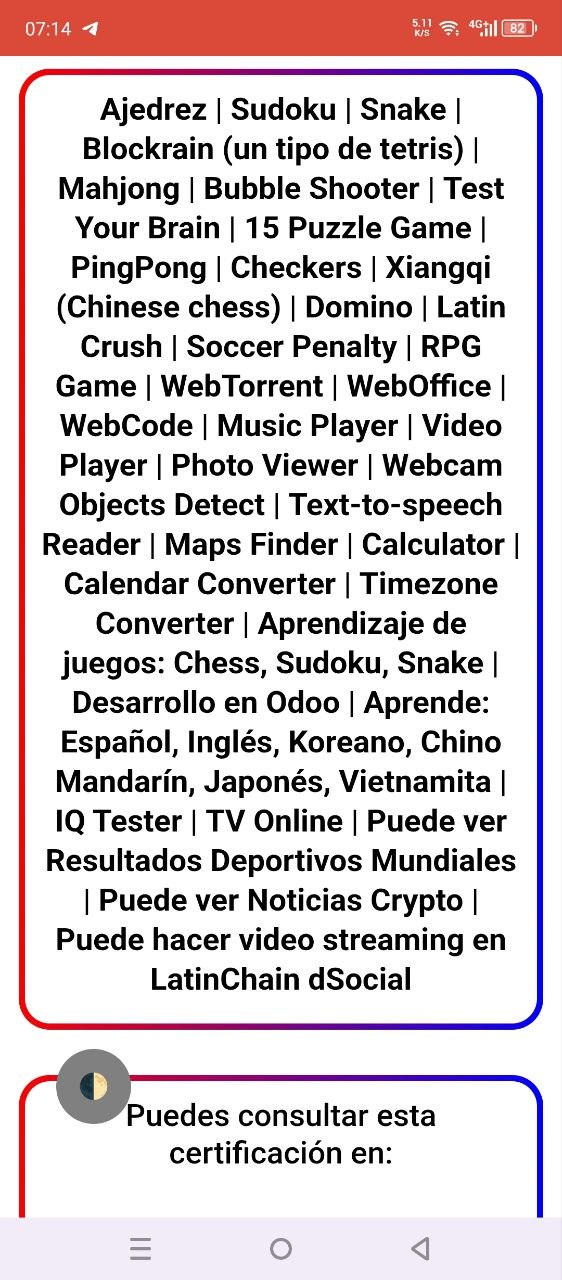
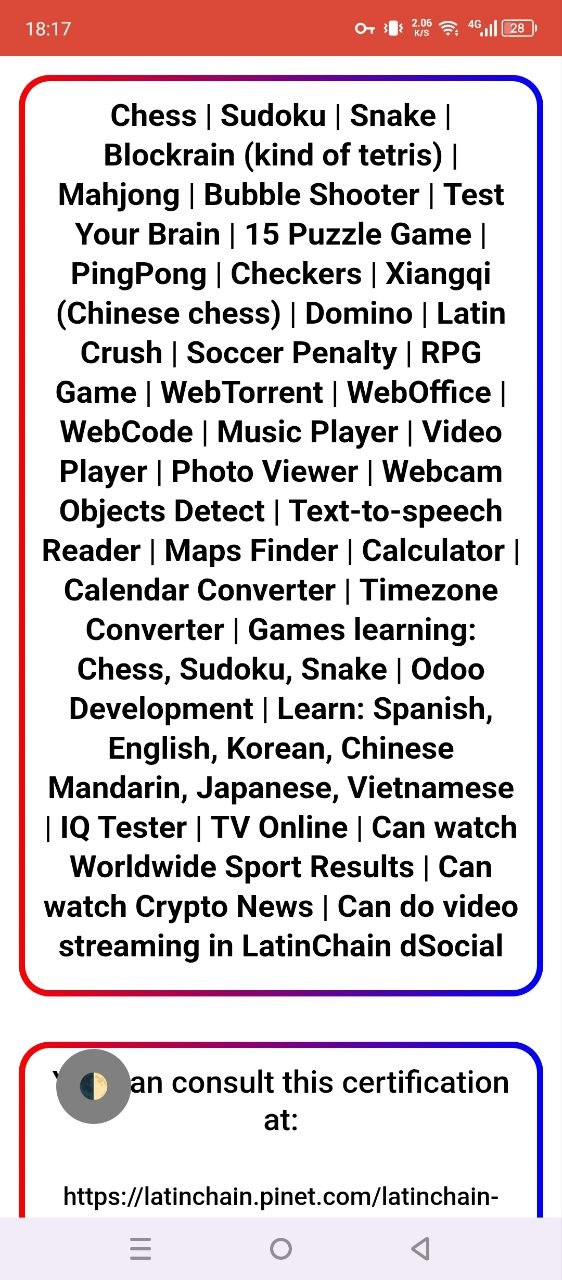
Upgrade

Changed region(s): [[0.0302, 0.0, 0.968, 0.9688], [0.121, 0.9062, 0.2117, 0.9688], [0.9377, 0.0625, 0.968, 0.0938]]

diff --git a/website_pinetwork_odoo/models/admin_apps.py b/website_pinetwork_odoo/models/admin_apps.py
@@ -362,7 +362,7 @@ class admin_apps(models.Model):
     """
     
     def _get_latinchain_specs(self):
-        return '/website_pinetwork_games_odoo/static/src/img/specs/latinchain-specs.jpg?v=1.105';
+        return '/website_pinetwork_games_odoo/static/src/img/specs/latinchain-specs.jpg?v=1.106';
     
     def _compute_points_latin_daily_total(self):
         for i in self: